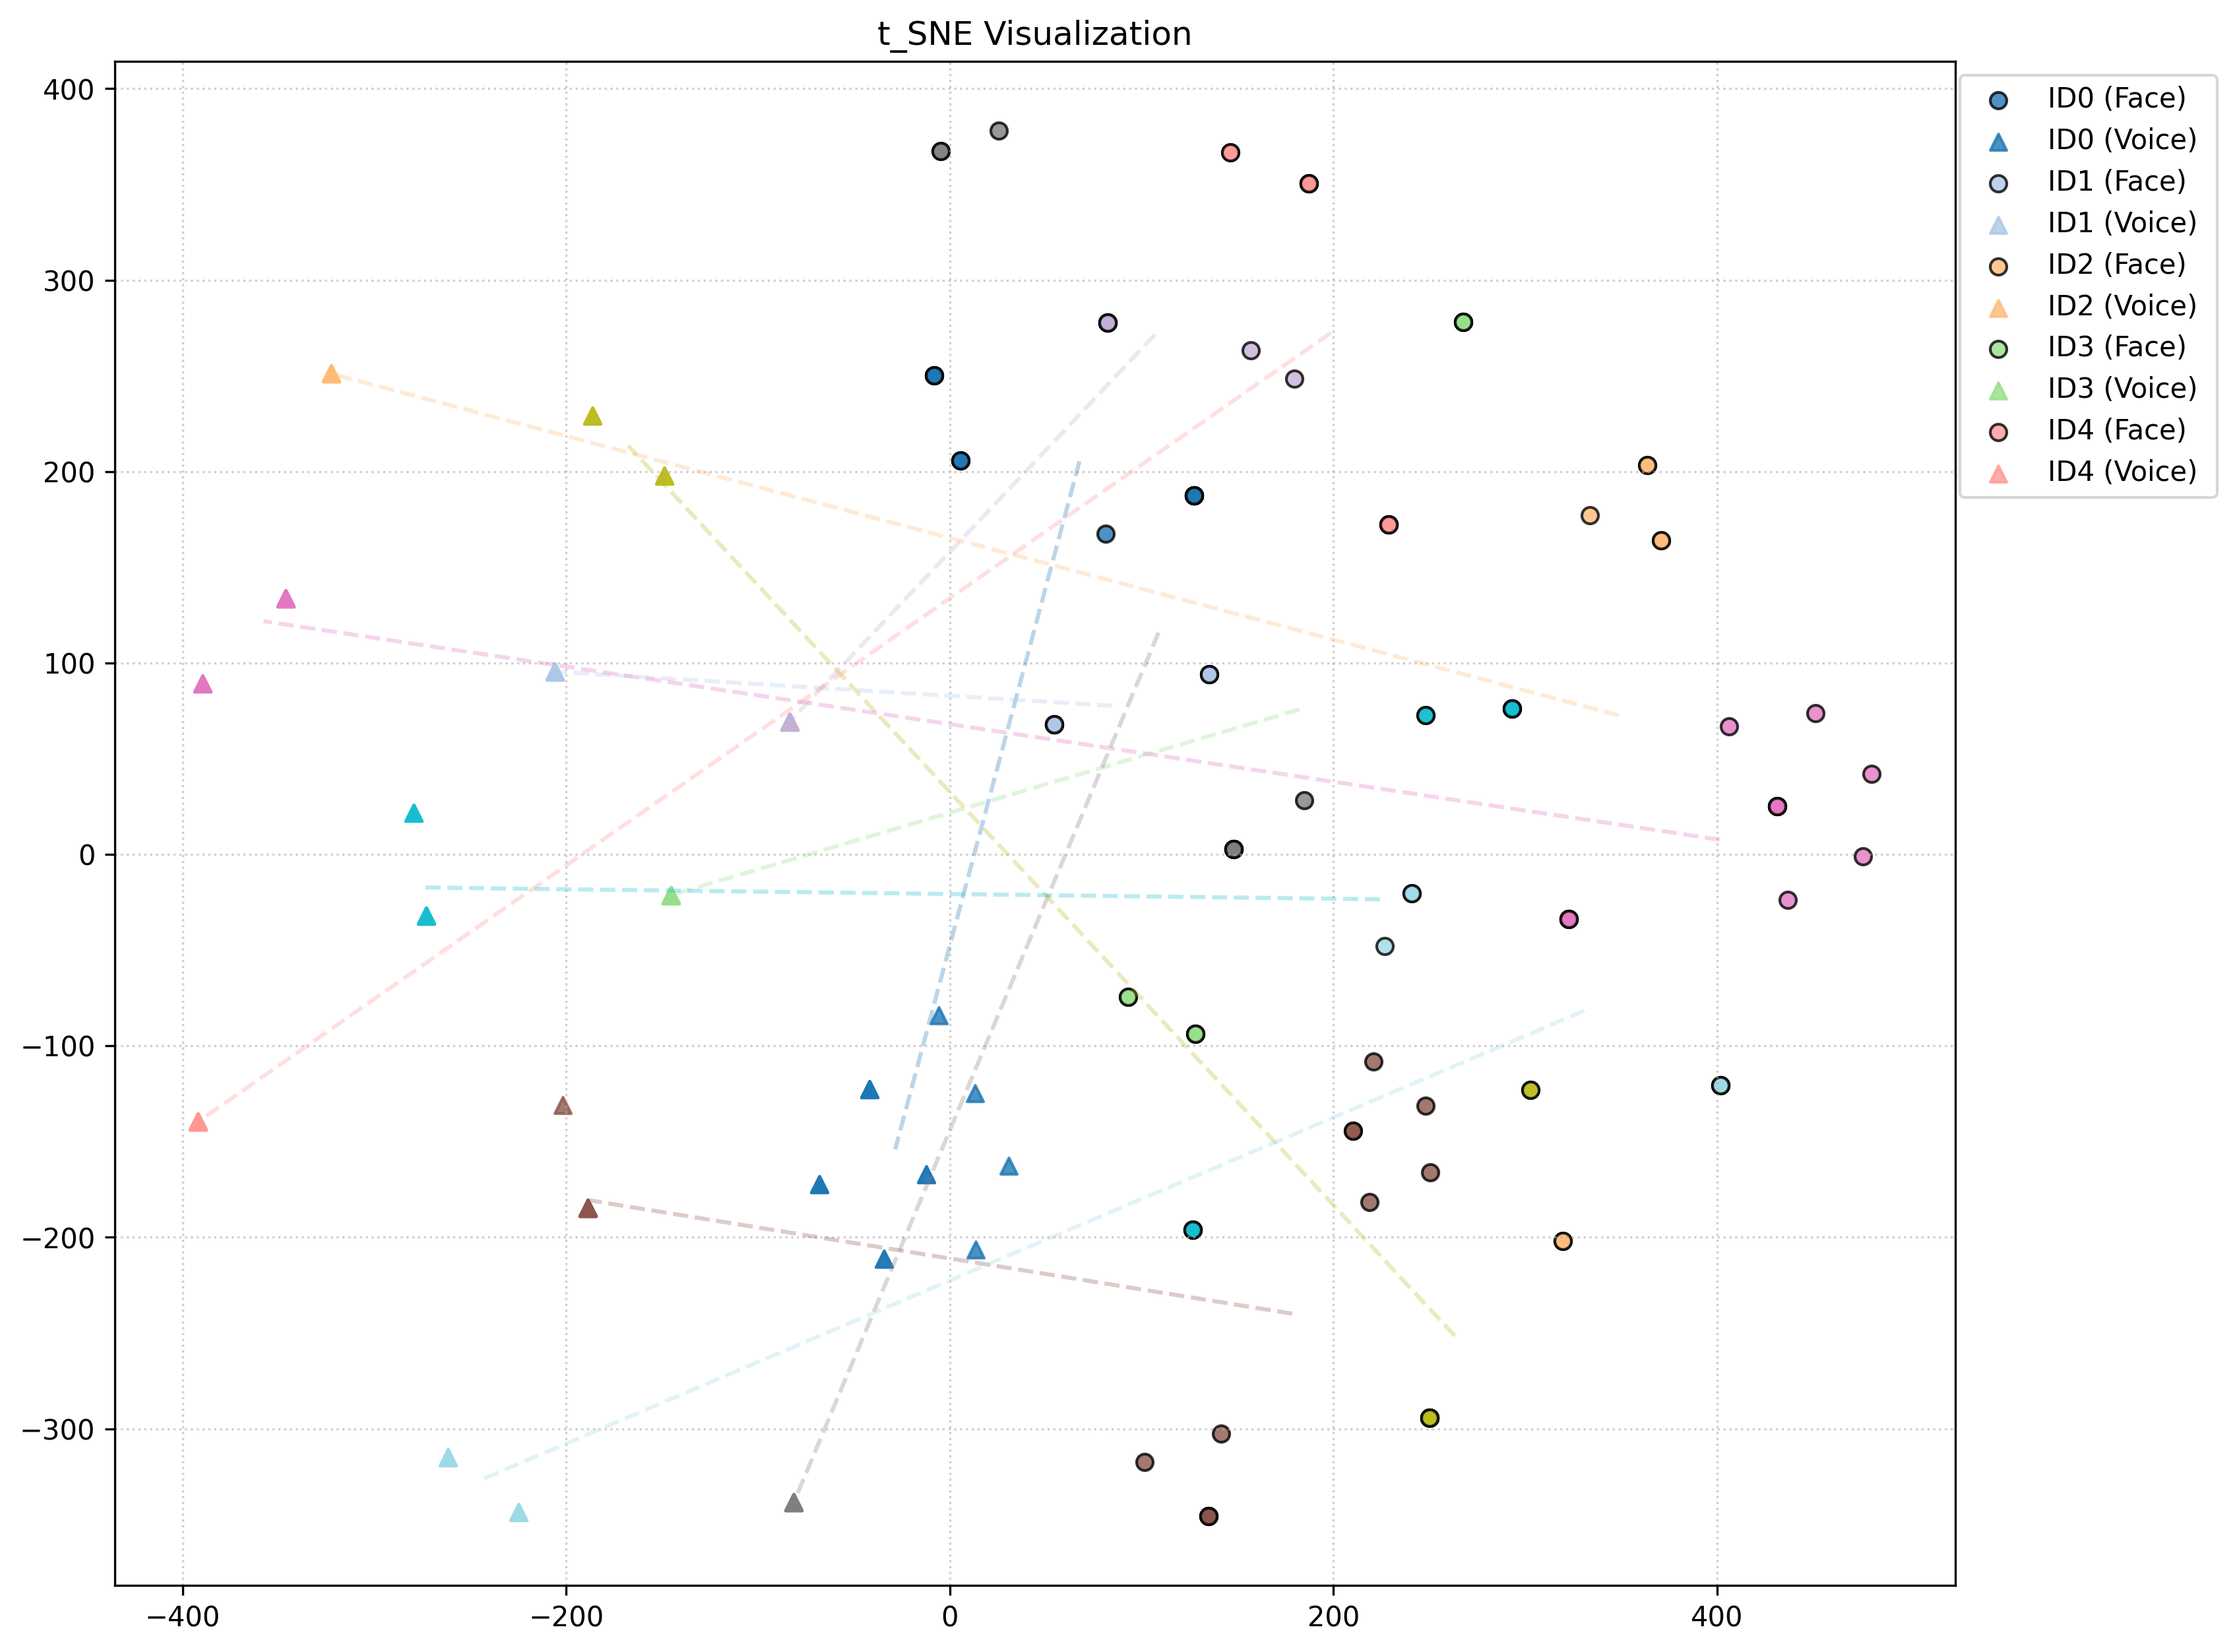
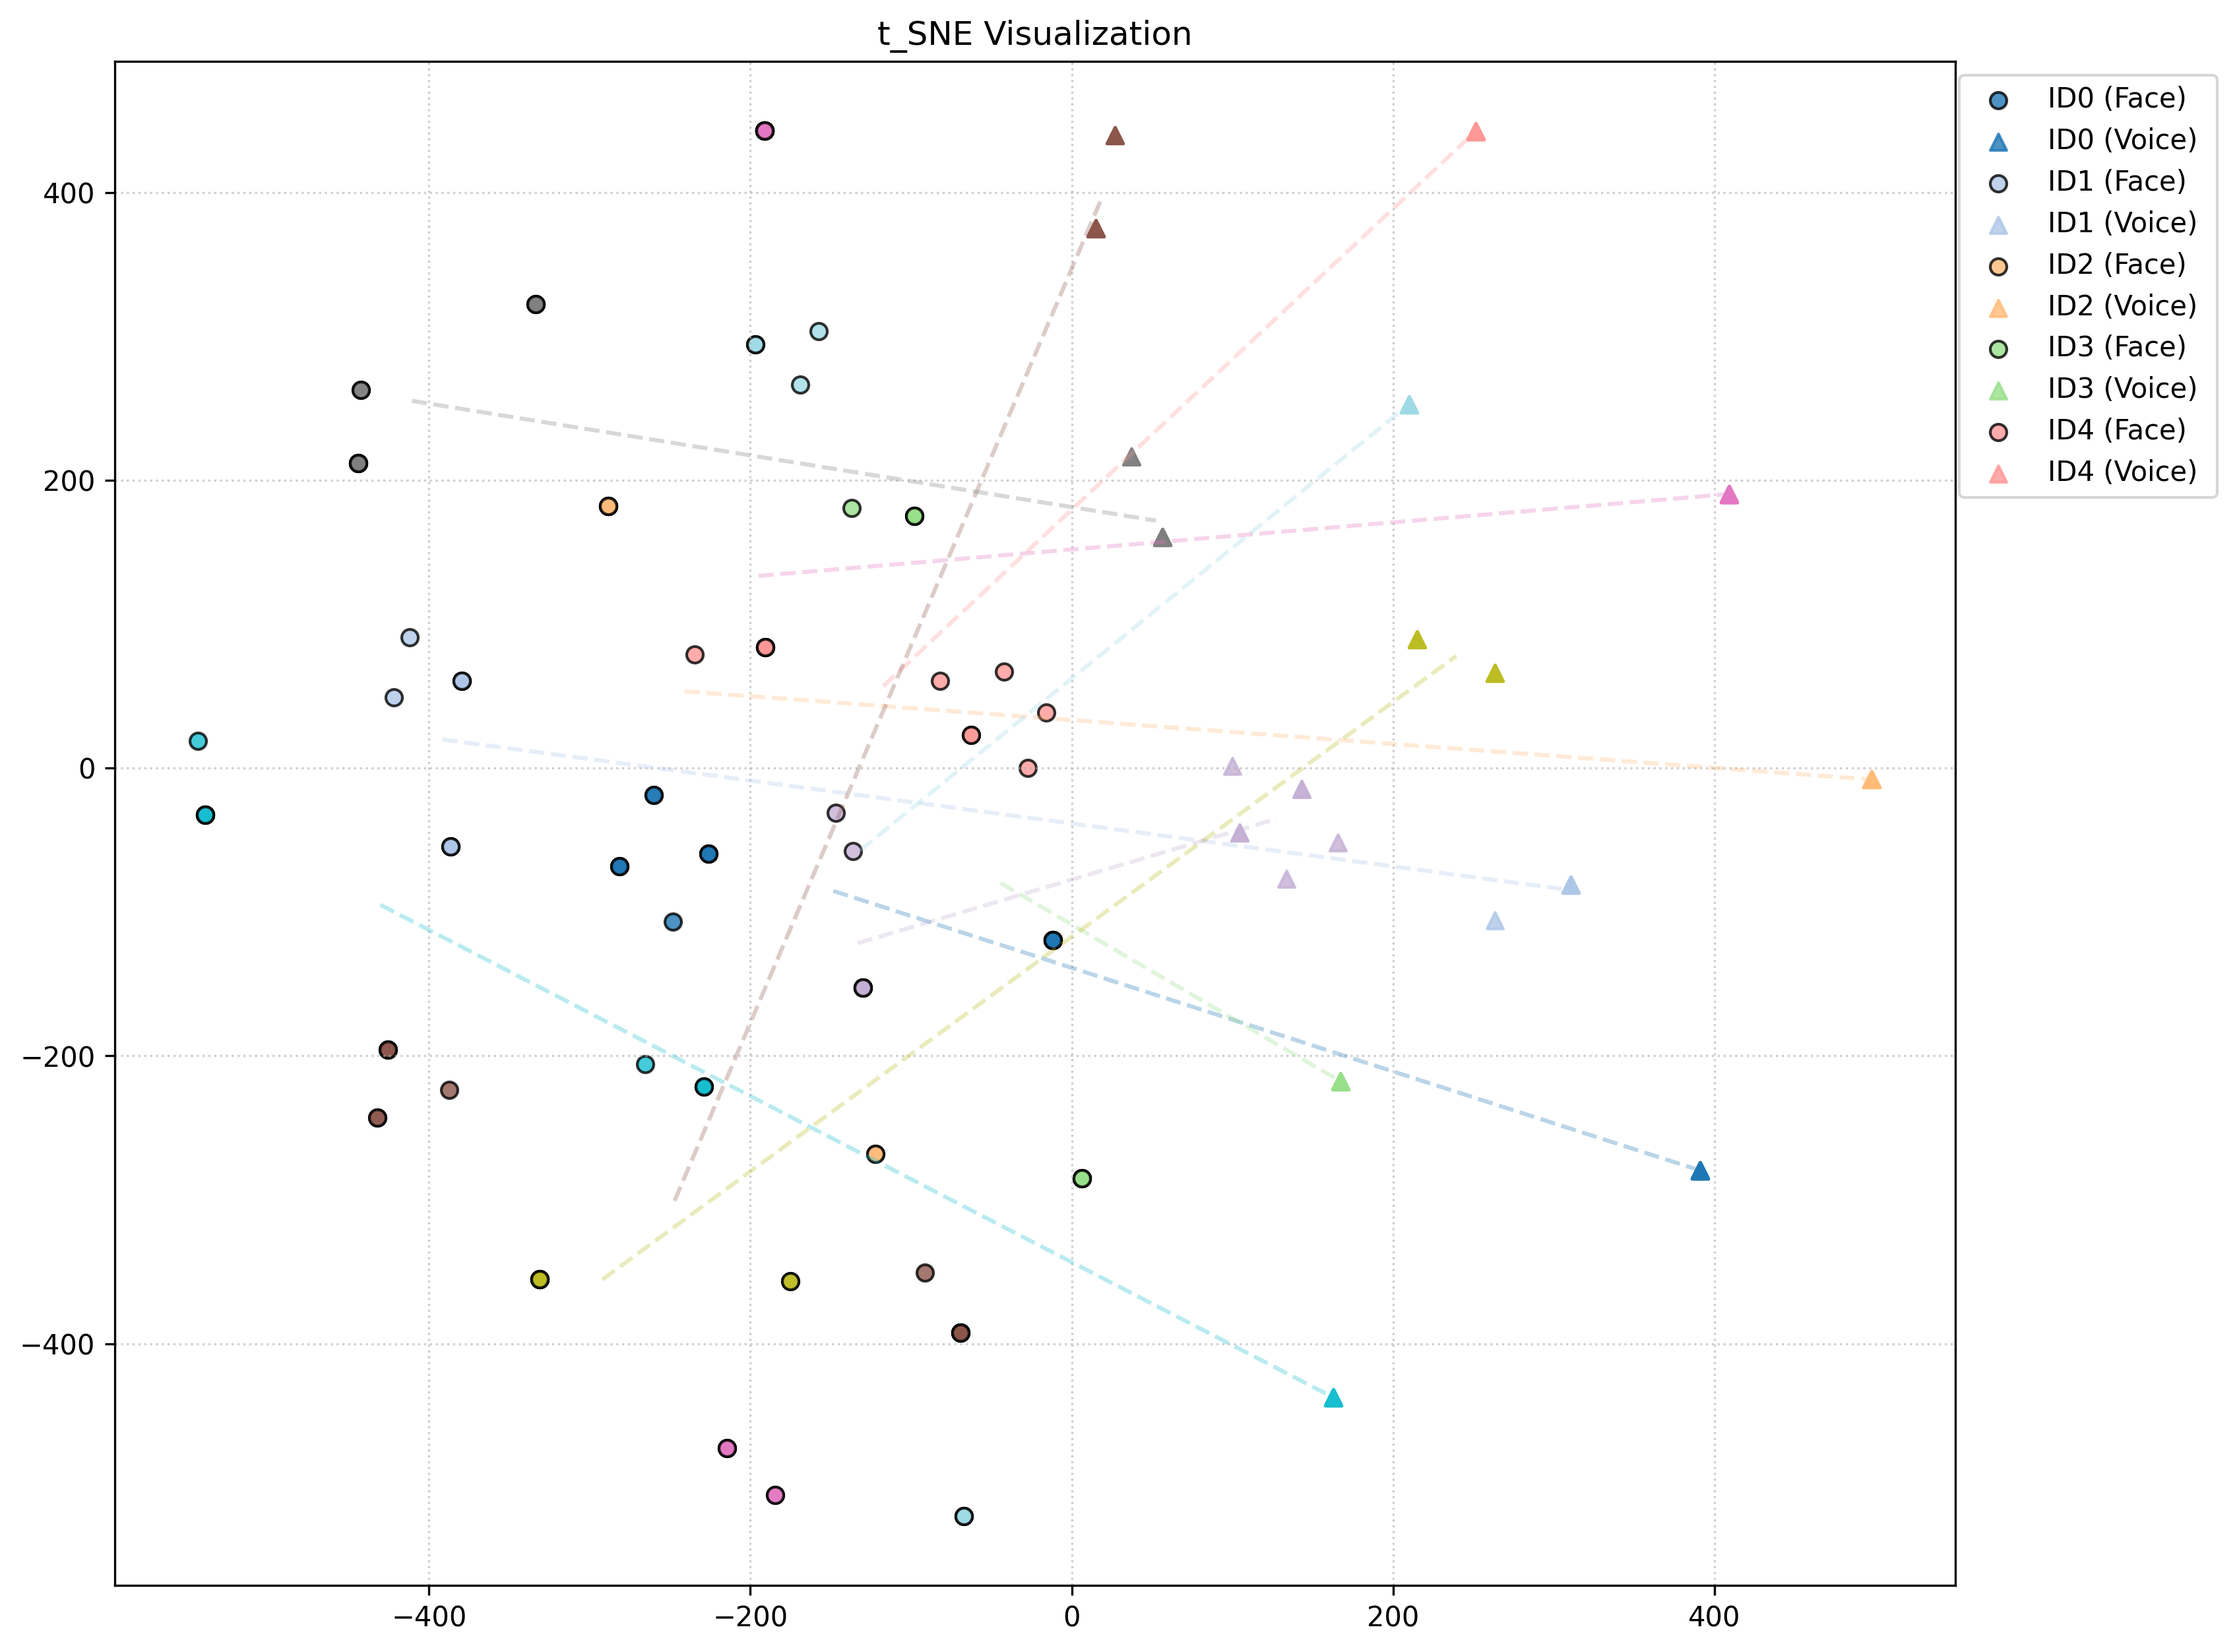
changed alignment loss from 0.1 to 1.0 to 10.0 which increased the accuracy from 93.96 to 95.33%(focused more on aligning the identities)

diff --git a/test.py b/test.py
@@ -23,7 +23,7 @@ def test_model():
     face_translator = ModalityTranslator(input_dim=128, output_dim=512).to(DEVICE) # spawn the upgraded 512d 
     voice_translator = ModalityTranslator(input_dim=128, output_dim=512).to(DEVICE) # spawn the upgraded 512d 
 
-    checkpoint = torch.load("final_model.pth", map_location=DEVICE) # open the suitcase with all our saved brains
+    checkpoint = torch.load("final_model_alignment=10.pth", map_location=DEVICE) # open the suitcase with all our saved brains
     model.load_state_dict(checkpoint['classifier']) # upload the classifier memories
     face_translator.load_state_dict(checkpoint['face_translator']) # upload the face translator memories
     voice_translator.load_state_dict(checkpoint['voice_translator']) # upload the voice translator memories

diff --git a/train.py b/train.py
@@ -80,7 +80,7 @@ if __name__ == "__main__":
               
                 
             
-            loss = class_loss + (0.1*ortho_loss) + (0.1 * align_loss) # master grading rubric - turned down side quests to 0.1 so it focuses on names
+            loss = class_loss + (0.1*ortho_loss) + (10.0 * align_loss) # master grading rubric - turned down side quests to 0.1 so it focuses on names
             
             loss.backward() # send the penalties backwards through the network
             optimizer.step() # actually update the weights/brains
